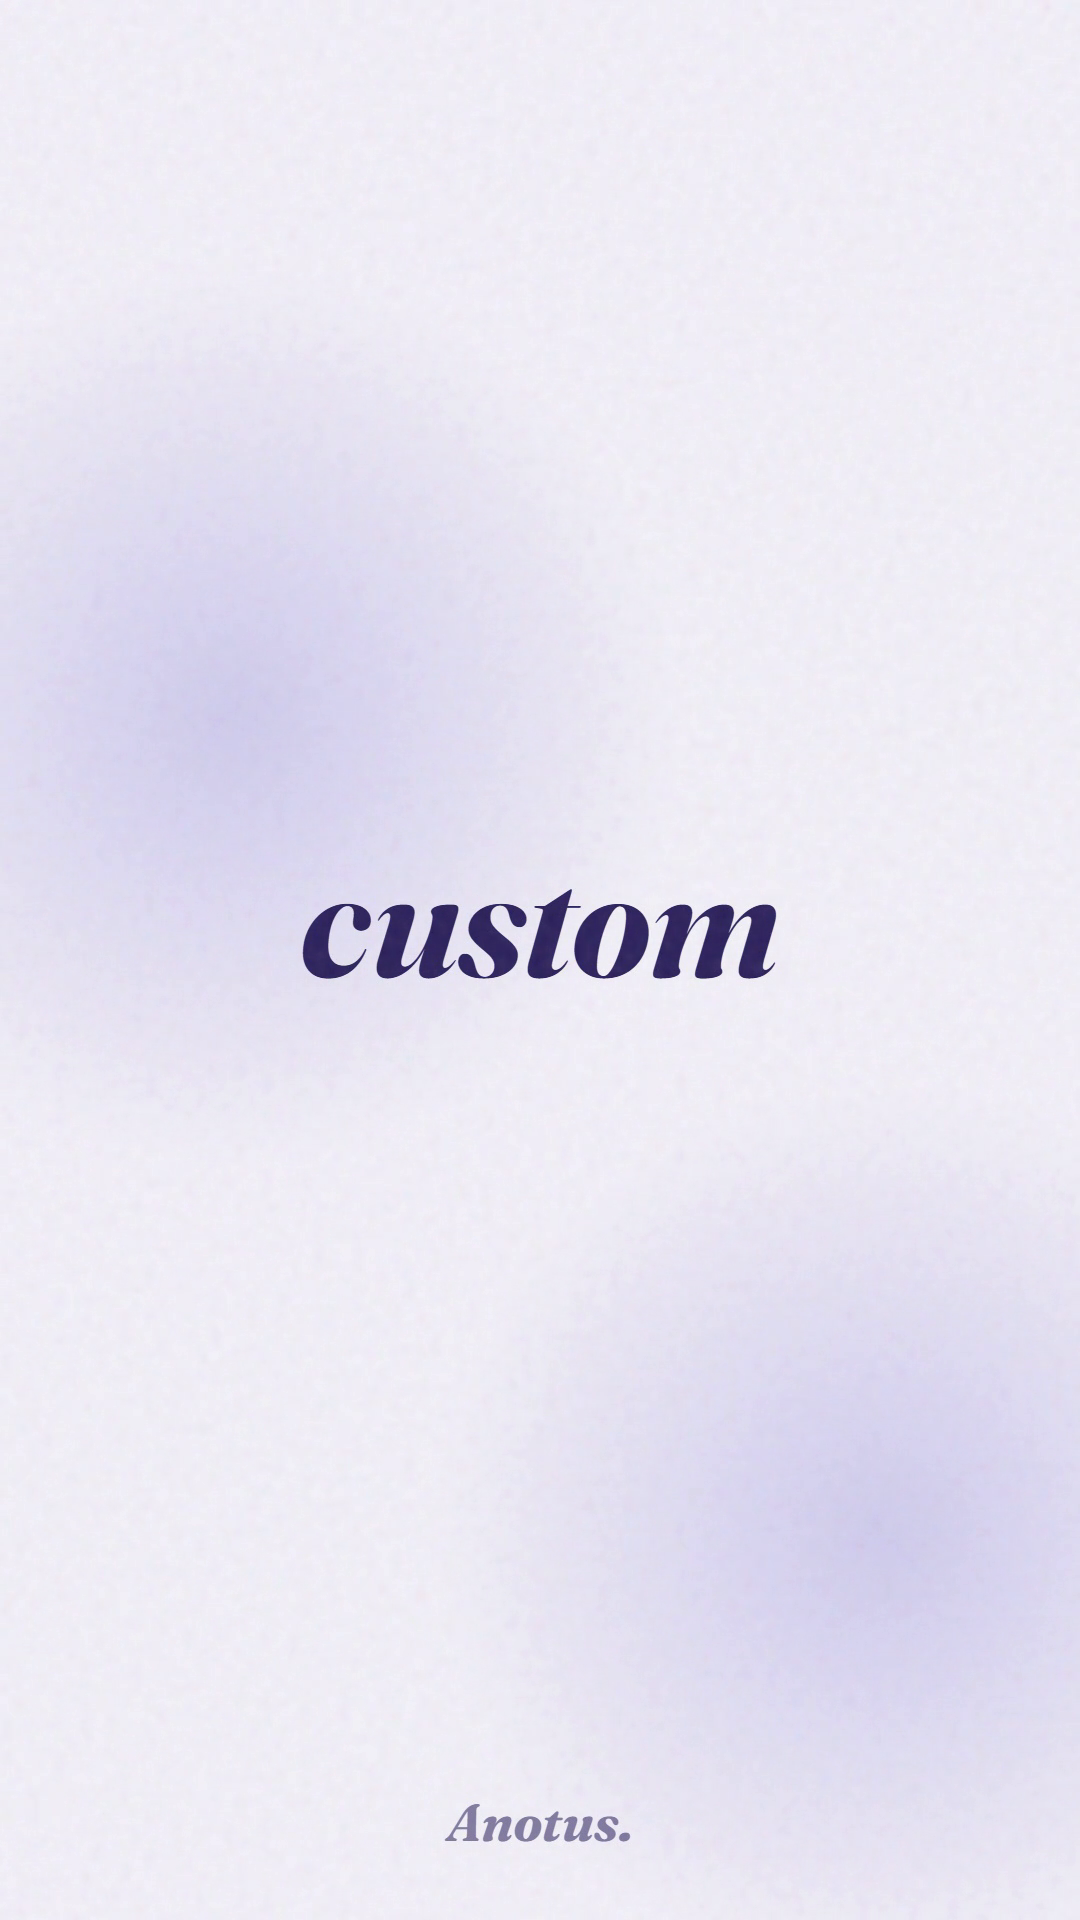
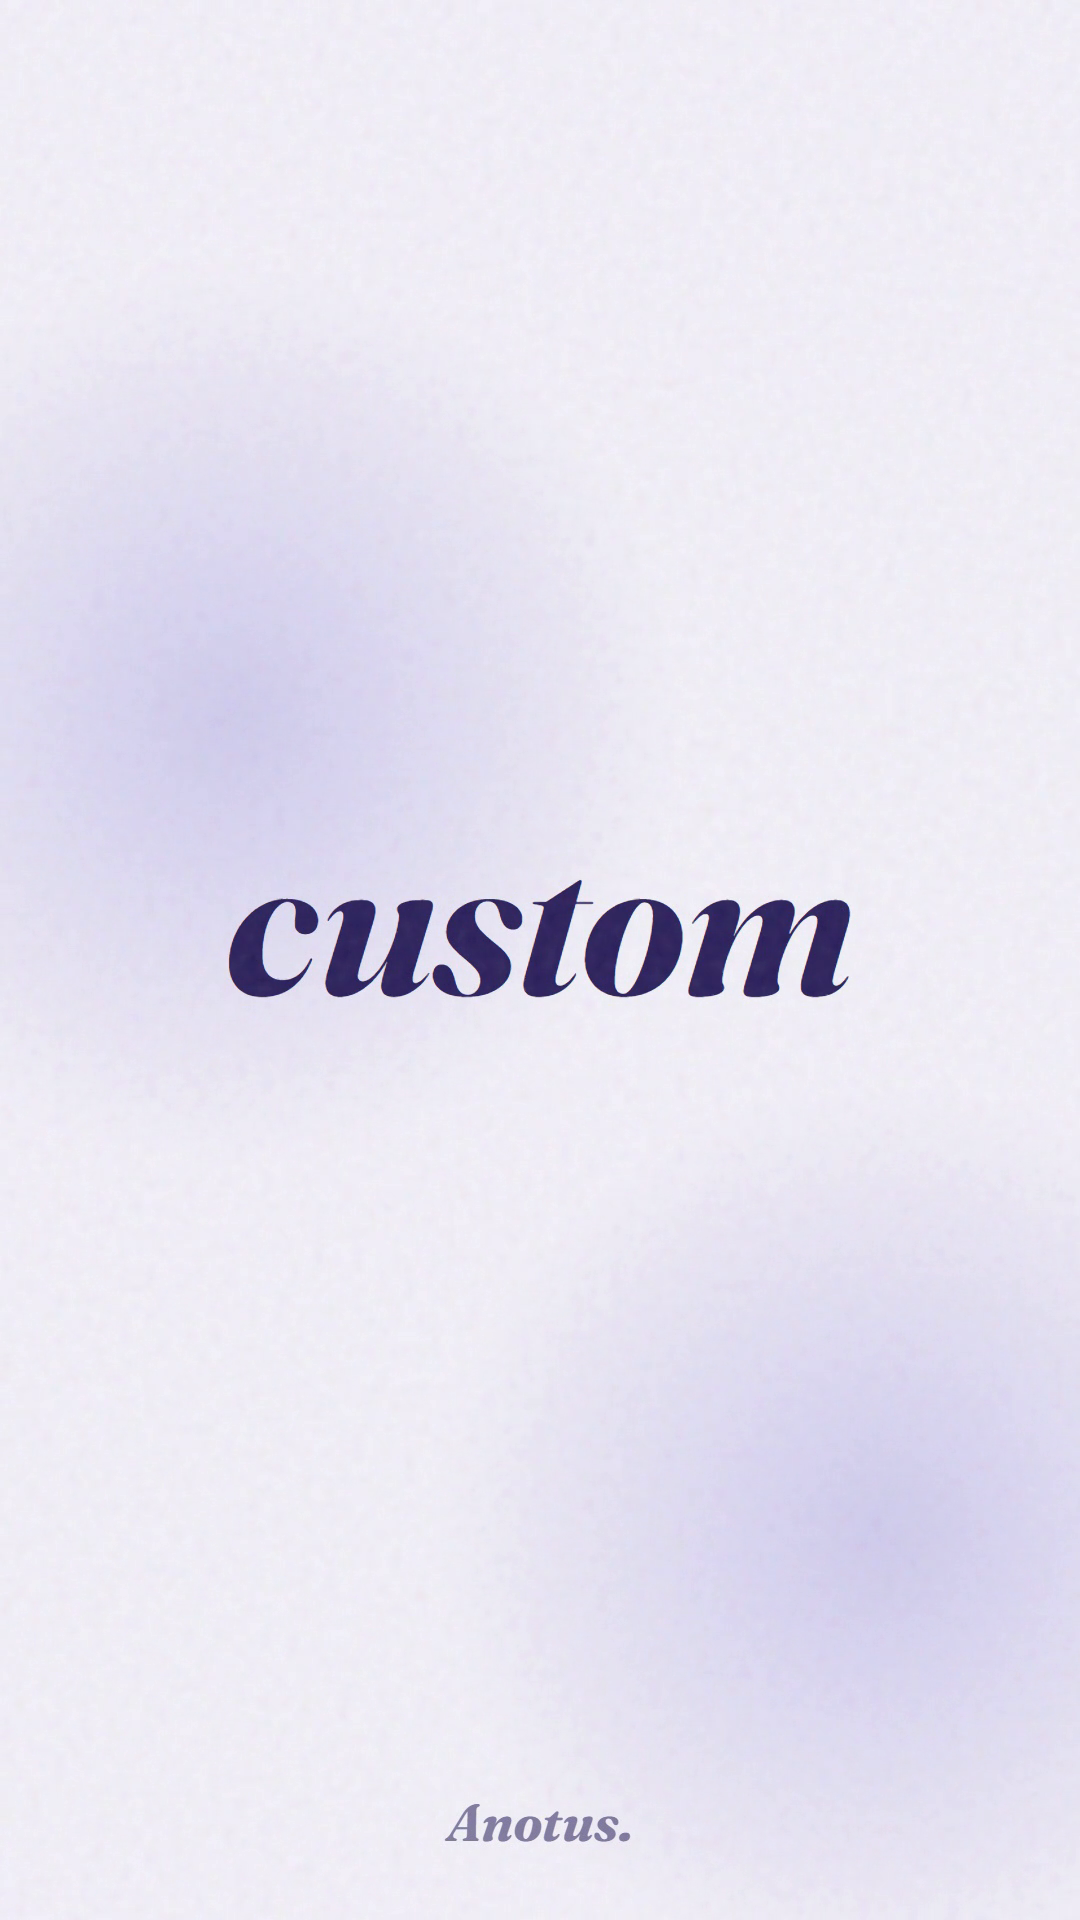
fix(motion): KIT.custom por id, tamanho do display por tema e golden do contador discriminante

Changed region(s): [[0.2139, 0.4375, 0.7944, 0.5312]]

diff --git a/motion/kit/kit.js b/motion/kit/kit.js
@@ -8,7 +8,10 @@
   const F = (n) => n / FPS;
   const quadro = (s) => Math.ceil(s * FPS - 1e-6) / FPS;
   const r3 = (s) => Math.round(s * 1000) / 1000;
-  const customs = [];   // fns de KIT.custom, na ordem do documento (= ordem das cenas custom)
+  // KIT.custom(fn): contrato = UM por fragmento custom. O _html emite <script>KIT._cena="cNN"</script>
+  // antes de cada fragmento; o id vem dali porque document.currentScript era null no render do HyperFrames.
+  const customs = {};
+  const customsVezes = {};
   const cues = [];
   const pintores = [];   // (tempo) => void, chamados a cada seek: estado em função do tempo, nunca acumulado
 
@@ -318,7 +321,8 @@
   }
 
   function custom(c, cena) {
-    const fn = customs[window.__KIT_DADOS.cenas.filter((x) => x.tipo === "custom").indexOf(cena)];
+    if (customsVezes[cena.id] > 1) throw new Error(`KIT.custom chamado ${customsVezes[cena.id]}x (use uma vez por fragmento)`);
+    const fn = customs[cena.id];
     if (!fn) throw new Error("cena custom não chamou KIT.custom(...)");
     const fim = fn(c);
     if (typeof fim !== "number" || !isFinite(fim)) throw new Error("KIT.custom precisa devolver o instante de fim (número)");
@@ -431,7 +435,12 @@
   }
 
   window.KIT = {
-    custom: (fn) => { customs.push(fn); },   // ordem, não currentScript: o HyperFrames pode reposicionar scripts
+    _cena: null,
+    custom: (fn) => {
+      const id = window.KIT._cena;
+      customs[id] = fn;
+      customsVezes[id] = (customsVezes[id] || 0) + 1;
+    },
     montar, F, FPS,
   };
 })();

diff --git a/motion/kit/kit.css b/motion/kit/kit.css
@@ -18,7 +18,7 @@ html, body { width: 1080px; height: 1920px; overflow: hidden; background: #000; 
 .k-conteudo { position: absolute; left: 80px; top: 180px; width: 920px; height: 1480px;
   display: flex; flex-direction: column; align-items: center; justify-content: center; gap: 14px; text-align: center; }
 
-.k-display { font-family: var(--k-display-familia); font-weight: var(--k-display-peso); font-style: var(--k-display-estilo); font-size: 160px; }
+.k-display { font-family: var(--k-display-familia); font-weight: var(--k-display-peso); font-style: var(--k-display-estilo); font-size: var(--k-display-tamanho, 190px); }
 .k-punch { font-family: var(--k-punch-familia); font-weight: var(--k-punch-peso); font-style: var(--k-punch-estilo); font-size: 96px; letter-spacing: -0.02em; }
 .k-corpo { font-family: var(--k-corpo-familia); font-weight: var(--k-corpo-peso); font-style: var(--k-corpo-estilo); font-size: 56px; }
 .k-mono { font-family: var(--k-mono-familia); font-weight: var(--k-mono-peso); font-style: var(--k-mono-estilo); font-size: 48px; }

diff --git a/ui/test_motion_golden.py b/ui/test_motion_golden.py
@@ -40,8 +40,12 @@ def _luma_faixa(png: Path, crop: str) -> float:
     return hi - lo
 
 
-def _frame(video: Path, t: float, dst: Path) -> Path:
-    _ff("-ss", f"{t:.3f}", "-i", str(video), "-frames:v", "1", str(dst))
+NUMERO = "crop=920:360:80:760"   # w:h:x:y, contém os dígitos do número da cena c03 (y~780-990)
+MARGEM_DB = 5                    # contador em movimento tem de ficar >= 5 dB abaixo do piso de "só grão"
+
+
+def _frame(video: Path, t: float, dst: Path, crop: str | None = None) -> Path:
+    _ff("-ss", f"{t:.3f}", "-i", str(video), *(["-vf", crop] if crop else []), "-frames:v", "1", str(dst))
     return dst
 
 
@@ -60,11 +64,21 @@ def test_golden(tmp_path, marca):
     tempos = json.loads((p / "motion" / "tempos.json").read_text(encoding="utf-8"))
     cenas = {c["id"]: c for c in tempos["cenas"]}
 
-    # Review Focus 1: contador e grão mudam com o tempo (pintores rodam no seek do HyperFrames)
+    # Review Focus 1: contador e grão mudam com o tempo (pintores rodam no seek do HyperFrames).
+    # Compara só a região do número (grão sozinho não basta: PSNR de grão vs grão fica alto).
     c3 = cenas["c03"]
-    a = _frame(video, c3["ini"] + 0.7, tmp_path / "cont-a.png")
-    b = _frame(video, c3["ini"] + 1.1, tmp_path / "cont-b.png")
-    assert _psnr(a, b) < 40, "contador/grão parados entre dois instantes"
+    fim = c3["ini"] + c3["dur"] - c3["saida"] - 0.05
+    a = _frame(video, c3["ini"] + 0.7, tmp_path / "cont-a.png", NUMERO)
+    b = _frame(video, c3["ini"] + 1.1, tmp_path / "cont-b.png", NUMERO)
+    f = _frame(video, fim, tmp_path / "cont-f.png", NUMERO)
+    # piso: dois quadros de uma cena já assentada (c04, lista) na mesma região, só o grão varia
+    c4 = cenas["c04"]
+    fim4 = c4["ini"] + c4["dur"] - c4["saida"] - 0.05
+    s1 = _frame(video, fim4 - 0.3, tmp_path / "piso-1.png", NUMERO)
+    s2 = _frame(video, fim4, tmp_path / "piso-2.png", NUMERO)
+    lim = _psnr(s1, s2) - MARGEM_DB
+    assert _psnr(a, b) < lim, f"contador parado entre +0,7 s e +1,1 s ({_psnr(a, b):.1f} dB, piso {lim:.1f})"
+    assert _psnr(a, f) < lim, f"contador em +0,7 s já igual ao valor final ({_psnr(a, f):.1f} dB, piso {lim:.1f})"
     # Review Focus 2: vídeo dentro da moldura browser aparece (não fica preto)
     c6 = cenas["c06"]
     v = _frame(video, c6["ini"] + c6["dur"] - c6["saida"] - 0.1, tmp_path / "video.png")

diff --git a/ui/test_motion.py b/ui/test_motion.py
@@ -104,6 +104,8 @@ def test_resolver_numero_mono_por_tema(tmp_path):
 def test_css_vars_e_tema_js():
     css = motion._css_vars(motion.carregar_tema("campeio"))
     assert "--k-fundo-marca:linear-gradient" in css and '--k-mono-familia:"K Plex Mono"' in css
+    assert "--k-display-tamanho:160px" in css
+    assert "--k-display-tamanho:210px" in motion._css_vars(motion.carregar_tema("anotus"))
     tj = motion._tema_js(motion.carregar_tema("campeio"))
     assert tj["assinatura"] == {"tipo": "icone", "src": "kit/tema/icone.png"} and tj["barra"] is True
 
@@ -260,6 +262,31 @@ def test_custom_sem_registro_vira_erro(tmp_path):
     (p / "c05.html").write_text("<div>nada</div>", encoding="utf-8")
     r = motion.montar(p)
     assert any(e["id"] == "c05" and "KIT.custom" in e["motivo"] for e in r["erros"])
+
+
+@pw
+def test_custom_erro_cai_na_cena_certa(tmp_path):
+    # 1ª custom não registra nada, 2ª registra: o erro vai só para a 1ª (mapa por id, não por ordem)
+    d = _cenas()
+    d["cenas"].insert(1, {"id": "c05", "tipo": "custom", "html": "c05.html", "dur": 2})
+    d["cenas"].insert(2, {"id": "c06", "tipo": "custom", "html": "c06.html", "dur": 3})
+    p = _proj(tmp_path, d)
+    (p / "c05.html").write_text("<div>nada</div>", encoding="utf-8")
+    (p / "c06.html").write_text(CUSTOM.format(id="c06"), encoding="utf-8")
+    r = motion.montar(p)
+    assert [e["id"] for e in r["erros"] if "KIT.custom" in e["motivo"]] == ["c05"]
+    assert not any(e["id"] == "c06" for e in r["erros"]), r["erros"]
+
+
+@pw
+def test_custom_registrado_duas_vezes_vira_erro(tmp_path):
+    d = _cenas()
+    d["cenas"].insert(1, {"id": "c05", "tipo": "custom", "html": "c05.html", "dur": 2})
+    p = _proj(tmp_path, d)
+    html = CUSTOM.format(id="c05")
+    (p / "c05.html").write_text(html + html.split("</div>", 1)[1], encoding="utf-8")
+    r = motion.montar(p)
+    assert any(e["id"] == "c05" and "2x" in e["motivo"] for e in r["erros"])
 
 
 def _abrir(index, fn):

diff --git a/ui/motion.py b/ui/motion.py
@@ -264,6 +264,7 @@ def _css_vars(tema: dict) -> str:
         v[f"{est}-familia"] = f'"{f[est]["familia"]}"'
         v[f"{est}-peso"] = str(f[est]["peso"])
         v[f"{est}-estilo"] = f[est].get("estilo", "normal")
+    v["display-tamanho"] = f'{f["display"].get("tamanho", 190)}px'
     return ":root{" + "".join(f"--k-{k}:{val};" for k, val in v.items()) + "}"
 
 def _tema_js(tema: dict) -> dict:
@@ -344,7 +345,7 @@ def _html(d: dict, tema: dict, customs: dict, tempos: dict | None) -> str:
             else:
                 inner += f'<img class="k-midia" src="{src}" alt="">'
         elif c["tipo"] == "custom":
-            inner += customs[c["id"]]
+            inner += f'<script>KIT._cena="{c["id"]}"</script>' + customs[c["id"]]
         partes.append(f'<div id="{c["id"]}" class="clip cena" {_attrs(t, i)}>{inner}</div>')
     cenas_js = [{k: v for k, v in c.items() if not k.startswith("_")} for c in d["cenas"]]
     dados = json.dumps({"tema": _tema_js(tema), "cenas": cenas_js}, ensure_ascii=False).replace("</", "<\\/")
